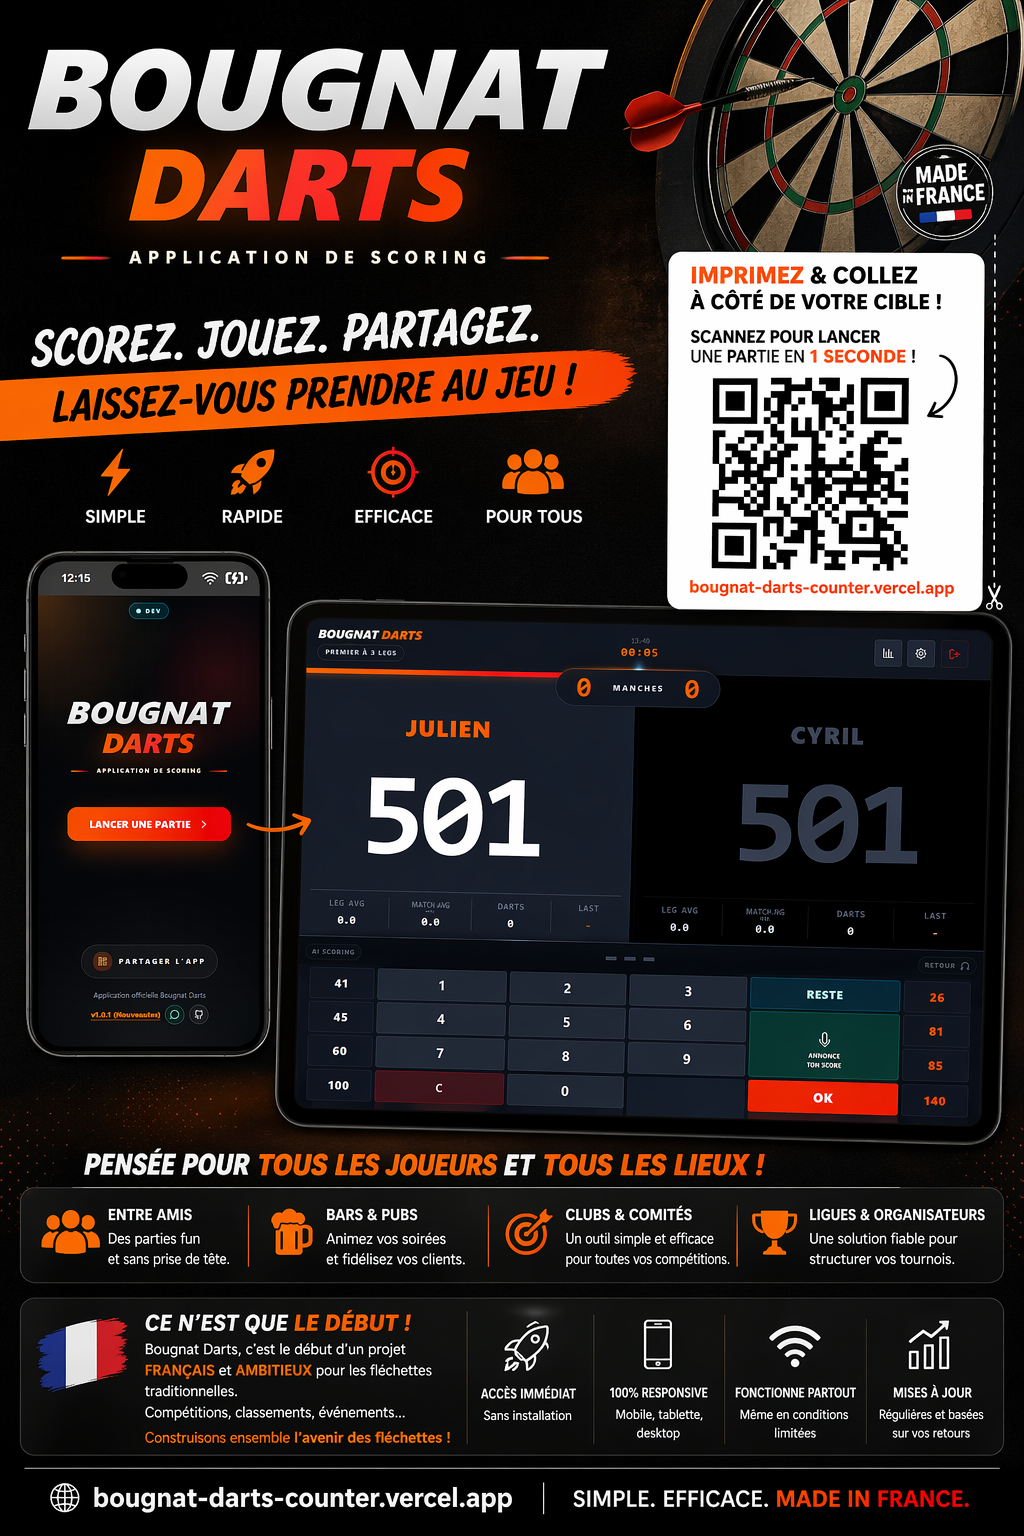
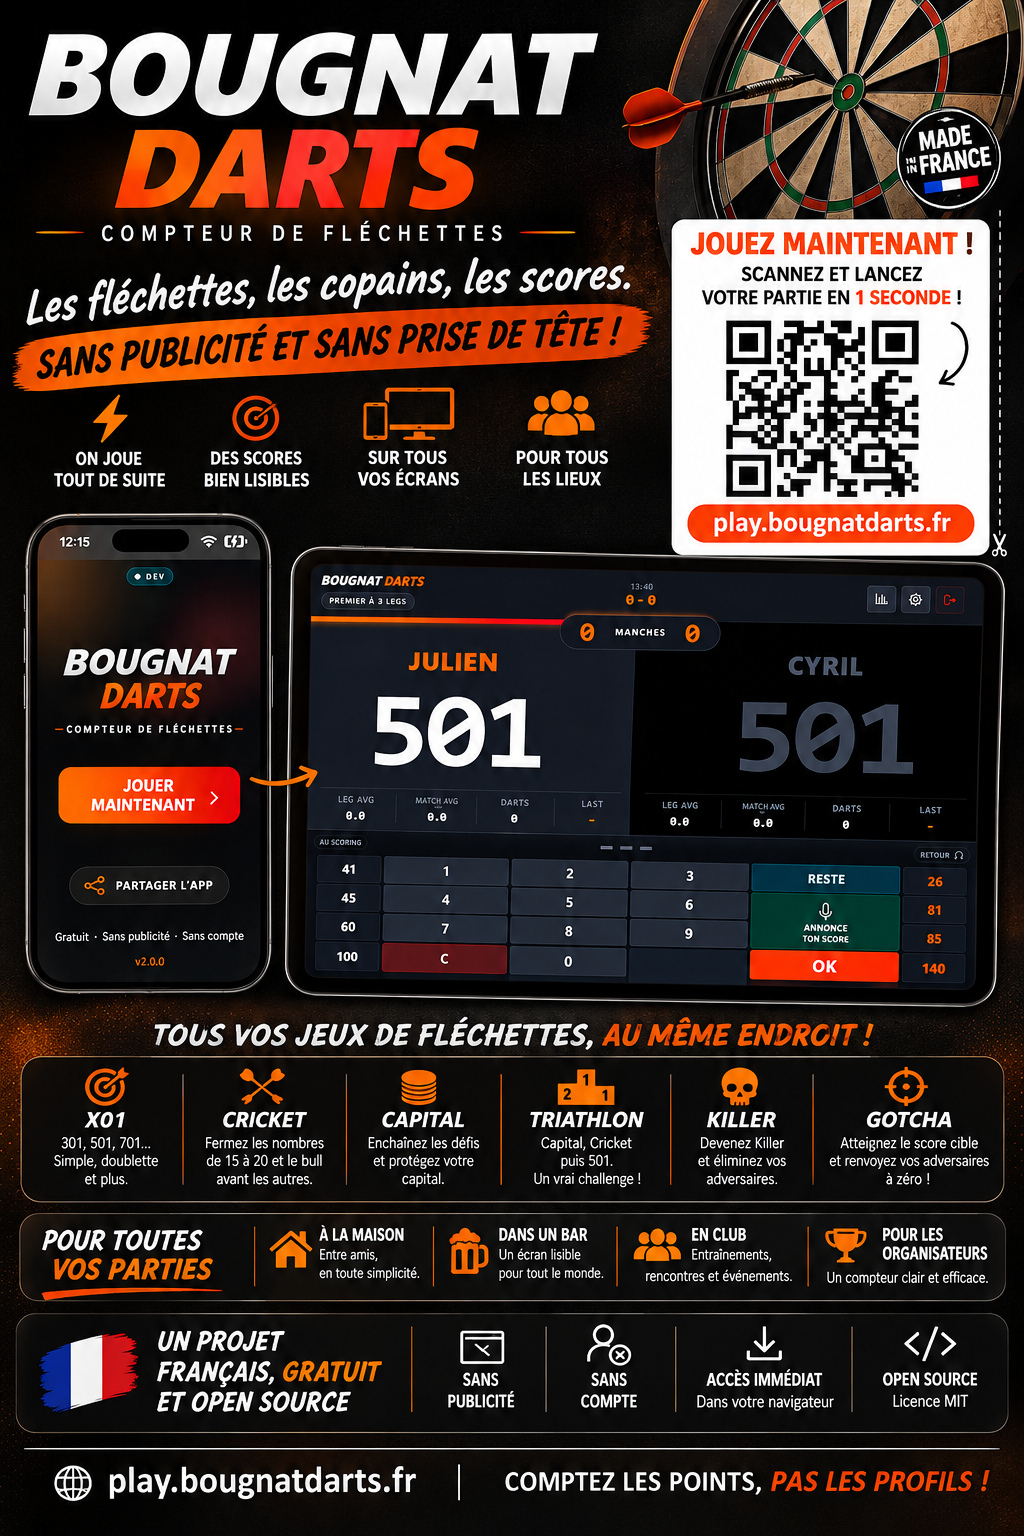
docs: add promotional visual to README

diff --git a/README.md b/README.md
@@ -8,6 +8,8 @@ Pas de compte à créer ni de mode d’emploi à lire entre deux volées. Ouvrez
 
 🇫🇷 Projet français · 🆓 Gratuit · 🚫 Sans publicité · 🔓 Sans compte
 
+![Affiche Bougnat Darts](public/Affiche_Bougnat_Darts_scorer.png)
+
 ---
 
 ## Moins de calculs, plus de fléchettes
@@ -81,7 +83,7 @@ Envoyez simplement cette adresse aux autres joueurs ou ouvrez-la sur l’apparei
 
 ### [https://play.bougnatdarts.fr](https://play.bougnatdarts.fr)
 
-Une nouvelle affiche imprimable, avec un QR code à jour, sera publiée prochainement.
+L’[affiche imprimable](public/Affiche_Bougnat_Darts_scorer.png) contient un QR code à jour pour lancer directement l’application.
 
 ## Libre, gratuit et fait pour le terrain
 
